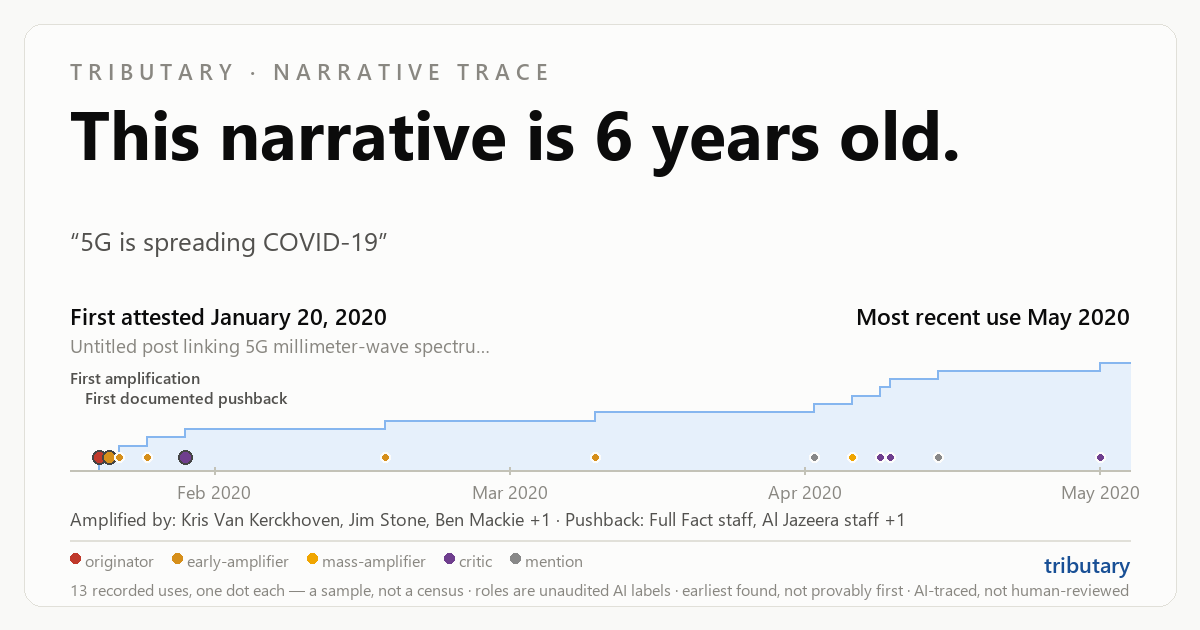
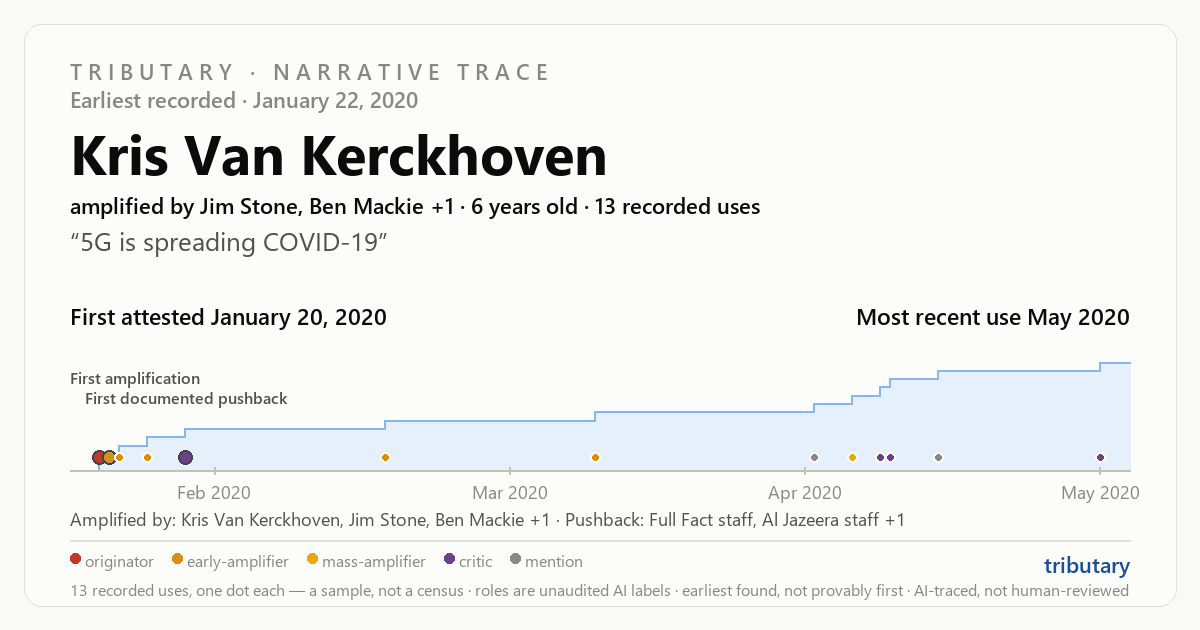
Card eyebrow dates the headlined source, not the trace
Caught on the first CI-rendered card (Iroquois trace): the eyebrow
paired the trace's first-attested date (December 1980) with a
role-originator from 1988 (Seventh Generation, Inc.), implying the
company said it eight years before its own recorded entry. The eyebrow
date now comes from the headlined entity's own attestation; the chart
label keeps the trace-level "First attested" fact. All cards
regenerated.

Changed region(s): [[0.0617, 0.1508, 0.8017, 0.3619], [0.0617, 0.5429, 0.4008, 0.573]]

diff --git a/gallery/cards/d5e2194ed5ea.html b/gallery/cards/d5e2194ed5ea.html
@@ -3,18 +3,18 @@
 <head>
 <meta charset="utf-8">
 <meta name="viewport" content="width=device-width, initial-scale=1">
-<title>This narrative is 33 years old. — Tributary</title>
+<title>Earliest recorded: Roy Rivenburg — Tributary</title>
 <meta property="og:type" content="article">
 <meta property="og:site_name" content="Tributary">
-<meta property="og:title" content="This narrative is 33 years old.">
-<meta property="og:description" content="Amplified by Roy Rivenburg, Ad Hudler +2. “chewing gum stays in your stomach for years” — first attested May 26, 1993 (33 years old). 13 recorded uses. Every date and source has a receipt. AI-traced, not human-reviewed.">
+<meta property="og:title" content="Roy Rivenburg — earliest recorded of “chewing gum stays in your stomach for years”">
+<meta property="og:description" content="Amplified by Ad Hudler, Nicholas Johnston +1. “chewing gum stays in your stomach for years” — first attested May 26, 1993 (33 years old). 13 recorded uses. Every date and source has a receipt. AI-traced, not human-reviewed.">
 <meta property="og:image" content="https://tarekelgindy.github.io/tributary/gallery/cards/d5e2194ed5ea.png">
 <meta property="og:image:width" content="1200">
 <meta property="og:image:height" content="630">
-<meta property="og:image:alt" content="This narrative is 33 years old.. Timeline of 13 recorded uses from May 26, 1993 onward. “chewing gum stays in your stomach for years”">
+<meta property="og:image:alt" content="Earliest recorded: Roy Rivenburg. Timeline of 13 recorded uses from May 26, 1993 onward. “chewing gum stays in your stomach for years”">
 <meta property="og:url" content="https://tarekelgindy.github.io/tributary/gallery/cards/d5e2194ed5ea.html">
 <meta name="twitter:card" content="summary_large_image">
-<meta name="description" content="Amplified by Roy Rivenburg, Ad Hudler +2. “chewing gum stays in your stomach for years” — first attested May 26, 1993 (33 years old). 13 recorded uses. Every date and source has a receipt. AI-traced, not human-reviewed.">
+<meta name="description" content="Amplified by Ad Hudler, Nicholas Johnston +1. “chewing gum stays in your stomach for years” — first attested May 26, 1993 (33 years old). 13 recorded uses. Every date and source has a receipt. AI-traced, not human-reviewed.">
 <style>
   :root { color-scheme: light; }
   * { box-sizing: border-box; }
@@ -61,9 +61,9 @@
 <div class="wrap">
   <div class="card">
     <div class="kicker">Tributary · narrative trace</div>
-    
-    <div class="headline">This narrative is 33 years old.</div>
-    <p class="deck">amplified by Roy Rivenburg, Ad Hudler +2 · 33 years old · 13 recorded uses</p>
+    <div class="eyebrow">Earliest recorded · September 19, 1993</div>
+    <div class="headline">Roy Rivenburg</div>
+    <p class="deck">amplified by Ad Hudler, Nicholas Johnston +1 · 33 years old · 13 recorded uses</p>
     <p class="phrase">“chewing gum stays in your stomach for years”</p>
     <svg viewBox="0 0 760 212" role="img" aria-label="Timeline of 13 recorded uses from May 26, 1993; Most recent use November 7, 2019"><style>.ms{font:600 15px system-ui;fill:#0b0b0b}.s{font:12.5px system-ui;fill:#898781}.t{font:11.5px system-ui;fill:#898781}.msl{font:600 11.5px system-ui;fill:#52514e}</style><polygon points="10.0,178.0 30.9,178.0 30.9,171.1 39.2,171.1 39.2,164.2 152.3,164.2 152.3,157.2 167.7,157.2 167.7,150.3 220.5,150.3 220.5,143.4 337.4,143.4 337.4,136.5 410.4,136.5 410.4,129.5 467.0,129.5 467.0,122.6 477.9,122.6 477.9,115.7 611.1,115.7 611.1,108.8 637.5,108.8 637.5,101.8 695.6,101.8 695.6,94.9 729.1,94.9 729.1,88.0 750.0,88.0 750.0,178.0" fill="#cde2fb" fill-opacity="0.55"/><polyline points="10.0,178.0 30.9,178.0 30.9,171.1 39.2,171.1 39.2,164.2 152.3,164.2 152.3,157.2 167.7,157.2 167.7,150.3 220.5,150.3 220.5,143.4 337.4,143.4 337.4,136.5 410.4,136.5 410.4,129.5 467.0,129.5 467.0,122.6 477.9,122.6 477.9,115.7 611.1,115.7 611.1,108.8 637.5,108.8 637.5,101.8 695.6,101.8 695.6,94.9 729.1,94.9 729.1,88.0 750.0,88.0" fill="none" stroke="#86b6ef" stroke-width="1.5"/><line x1="10" y1="178" x2="750" y2="178" stroke="#c3c2b7" stroke-width="1.5"/><line x1="73.2" y1="175" x2="73.2" y2="181" stroke="#c3c2b7"/><text x="73.2" y="195" text-anchor="middle" class="t">1995</text><line x1="205.1" y1="175" x2="205.1" y2="181" stroke="#c3c2b7"/><text x="205.1" y="195" text-anchor="middle" class="t">2000</text><line x1="337.1" y1="175" x2="337.1" y2="181" stroke="#c3c2b7"/><text x="337.1" y="195" text-anchor="middle" class="t">2005</text><line x1="469.1" y1="175" x2="469.1" y2="181" stroke="#c3c2b7"/><text x="469.1" y="195" text-anchor="middle" class="t">2010</text><line x1="601.1" y1="175" x2="601.1" y2="181" stroke="#c3c2b7"/><text x="601.1" y="195" text-anchor="middle" class="t">2015</text><line x1="733.0" y1="175" x2="733.0" y2="181" stroke="#c3c2b7"/><text x="733.0" y="195" text-anchor="middle" class="t">2020</text><circle cx="30.9" cy="165.0" r="6" fill="#d68f1a" stroke="#444444" stroke-width="1.5"><title>1993-05-26 · early-amplifier</title></circle><circle cx="39.2" cy="165.0" r="4" fill="#d68f1a" stroke="#fcfcfb" stroke-width="1.5"><title>1993-09-19 · Roy Rivenburg · early-amplifier</title></circle><circle cx="152.3" cy="165.0" r="4" fill="#d68f1a" stroke="#fcfcfb" stroke-width="1.5"><title>1998-01-01 · Ad Hudler · early-amplifier</title></circle><circle cx="167.7" cy="165.0" r="4" fill="#888888" stroke="#fcfcfb" stroke-width="1.5"><title>1998-08-01 · David E. Milov, J. Marc Andres, Nancy A. Erhart, David J. Bailey · mention</title></circle><circle cx="220.5" cy="165.0" r="4" fill="#d68f1a" stroke="#fcfcfb" stroke-width="1.5"><title>2000-08-01 · Nicholas Johnston · early-amplifier</title></circle><circle cx="337.4" cy="165.0" r="6" fill="#6f3e8e" stroke="#444444" stroke-width="1.5"><title>First documented pushback — 2005-01-05 · Barbara Mikkelson · critic</title></circle><circle cx="410.4" cy="165.0" r="4" fill="#6f3e8e" stroke="#fcfcfb" stroke-width="1.5"><title>2007-10-11 · John Matson · critic</title></circle><circle cx="467.0" cy="165.0" r="4" fill="#6f3e8e" stroke="#fcfcfb" stroke-width="1.5"><title>2009-12-02 · Adam Brandeberry · critic</title></circle><circle cx="477.9" cy="165.0" r="4" fill="#6f3e8e" stroke="#fcfcfb" stroke-width="1.5"><title>2010-05-01 · critic</title></circle><circle cx="611.1" cy="165.0" r="4" fill="#6f3e8e" stroke="#fcfcfb" stroke-width="1.5"><title>2015-05-19 · critic</title></circle><circle cx="637.5" cy="165.0" r="4" fill="#f0a500" stroke="#fcfcfb" stroke-width="1.5"><title>2016-05-19 · Randee Dawn · mass-amplifier</title></circle><circle cx="695.6" cy="165.0" r="4" fill="#6f3e8e" stroke="#fcfcfb" stroke-width="1.5"><title>2018-07-31 · critic</title></circle><circle cx="729.1" cy="165.0" r="4" fill="#6f3e8e" stroke="#fcfcfb" stroke-width="1.5"><title>2019-11-07 · critic</title></circle><text x="337.4" y="58" text-anchor="middle" class="msl">First documented pushback</text><text x="10" y="20" class="ms">First attested May 26, 1993</text><text x="10" y="38" class="s">Chew on This for a While</text><text x="750" y="20" text-anchor="end" class="ms">Most recent use November 7, 2019</text></svg>
     <p class="who">Amplified by: Roy Rivenburg, Ad Hudler, Nicholas Johnston +1 · Pushback: Barbara Mikkelson, John Matson +1</p>

diff --git a/gallery/cards/ae66151716a4.html b/gallery/cards/ae66151716a4.html
@@ -3,18 +3,18 @@
 <head>
 <meta charset="utf-8">
 <meta name="viewport" content="width=device-width, initial-scale=1">
-<title>This narrative is 6 years old. — Tributary</title>
+<title>Earliest recorded: Kris Van Kerckhoven — Tributary</title>
 <meta property="og:type" content="article">
 <meta property="og:site_name" content="Tributary">
-<meta property="og:title" content="This narrative is 6 years old.">
-<meta property="og:description" content="Amplified by Kris Van Kerckhoven, Jim Stone +2. “5G is spreading COVID-19” — first attested January 20, 2020 (6 years old). 13 recorded uses. Every date and source has a receipt. AI-traced, not human-reviewed.">
+<meta property="og:title" content="Kris Van Kerckhoven — earliest recorded of “5G is spreading COVID-19”">
+<meta property="og:description" content="Amplified by Jim Stone, Ben Mackie +1. “5G is spreading COVID-19” — first attested January 20, 2020 (6 years old). 13 recorded uses. Every date and source has a receipt. AI-traced, not human-reviewed.">
 <meta property="og:image" content="https://tarekelgindy.github.io/tributary/gallery/cards/ae66151716a4.png">
 <meta property="og:image:width" content="1200">
 <meta property="og:image:height" content="630">
-<meta property="og:image:alt" content="This narrative is 6 years old.. Timeline of 13 recorded uses from January 20, 2020 onward. “5G is spreading COVID-19”">
+<meta property="og:image:alt" content="Earliest recorded: Kris Van Kerckhoven. Timeline of 13 recorded uses from January 20, 2020 onward. “5G is spreading COVID-19”">
 <meta property="og:url" content="https://tarekelgindy.github.io/tributary/gallery/cards/ae66151716a4.html">
 <meta name="twitter:card" content="summary_large_image">
-<meta name="description" content="Amplified by Kris Van Kerckhoven, Jim Stone +2. “5G is spreading COVID-19” — first attested January 20, 2020 (6 years old). 13 recorded uses. Every date and source has a receipt. AI-traced, not human-reviewed.">
+<meta name="description" content="Amplified by Jim Stone, Ben Mackie +1. “5G is spreading COVID-19” — first attested January 20, 2020 (6 years old). 13 recorded uses. Every date and source has a receipt. AI-traced, not human-reviewed.">
 <style>
   :root { color-scheme: light; }
   * { box-sizing: border-box; }
@@ -61,9 +61,9 @@
 <div class="wrap">
   <div class="card">
     <div class="kicker">Tributary · narrative trace</div>
-    
-    <div class="headline">This narrative is 6 years old.</div>
-    <p class="deck">amplified by Kris Van Kerckhoven, Jim Stone +2 · 6 years old · 13 recorded uses</p>
+    <div class="eyebrow">Earliest recorded · January 22, 2020</div>
+    <div class="headline">Kris Van Kerckhoven</div>
+    <p class="deck">amplified by Jim Stone, Ben Mackie +1 · 6 years old · 13 recorded uses</p>
     <p class="phrase">“5G is spreading COVID-19”</p>
     <svg viewBox="0 0 760 212" role="img" aria-label="Timeline of 13 recorded uses from January 20, 2020; Most recent use May 2020"><style>.ms{font:600 15px system-ui;fill:#0b0b0b}.s{font:12.5px system-ui;fill:#898781}.t{font:11.5px system-ui;fill:#898781}.msl{font:600 11.5px system-ui;fill:#52514e}</style><polygon points="10.0,178.0 30.9,178.0 30.9,171.1 37.6,171.1 37.6,164.2 44.2,164.2 44.2,157.2 64.2,157.2 64.2,150.3 90.8,150.3 90.8,143.4 230.4,143.4 230.4,136.5 376.7,136.5 376.7,129.5 529.6,129.5 529.6,122.6 556.2,122.6 556.2,115.7 576.1,115.7 576.1,108.8 582.8,108.8 582.8,101.8 616.0,101.8 616.0,94.9 729.1,94.9 729.1,88.0 750.0,88.0 750.0,178.0" fill="#cde2fb" fill-opacity="0.55"/><polyline points="10.0,178.0 30.9,178.0 30.9,171.1 37.6,171.1 37.6,164.2 44.2,164.2 44.2,157.2 64.2,157.2 64.2,150.3 90.8,150.3 90.8,143.4 230.4,143.4 230.4,136.5 376.7,136.5 376.7,129.5 529.6,129.5 529.6,122.6 556.2,122.6 556.2,115.7 576.1,115.7 576.1,108.8 582.8,108.8 582.8,101.8 616.0,101.8 616.0,94.9 729.1,94.9 729.1,88.0 750.0,88.0" fill="none" stroke="#86b6ef" stroke-width="1.5"/><line x1="10" y1="178" x2="750" y2="178" stroke="#c3c2b7" stroke-width="1.5"/><line x1="110.7" y1="175" x2="110.7" y2="181" stroke="#c3c2b7"/><text x="110.7" y="195" text-anchor="middle" class="t">Feb 2020</text><line x1="316.8" y1="175" x2="316.8" y2="181" stroke="#c3c2b7"/><text x="316.8" y="195" text-anchor="middle" class="t">Mar 2020</text><line x1="522.9" y1="175" x2="522.9" y2="181" stroke="#c3c2b7"/><text x="522.9" y="195" text-anchor="middle" class="t">Apr 2020</text><line x1="729.1" y1="175" x2="729.1" y2="181" stroke="#c3c2b7"/><text x="729.1" y="195" text-anchor="middle" class="t">May 2020</text><circle cx="30.9" cy="165.0" r="6" fill="#c0392b" stroke="#444444" stroke-width="1.5"><title>2020-01-20 · originator</title></circle><circle cx="37.6" cy="165.0" r="6" fill="#d68f1a" stroke="#444444" stroke-width="1.5"><title>First amplification — 2020-01-21 · early-amplifier</title></circle><circle cx="44.2" cy="156.0" r="4" fill="#d68f1a" stroke="#fcfcfb" stroke-width="1.5"><title>2020-01-22 · Kris Van Kerckhoven · early-amplifier</title></circle><circle cx="64.2" cy="165.0" r="4" fill="#d68f1a" stroke="#fcfcfb" stroke-width="1.5"><title>2020-01-25 · Jim Stone · early-amplifier</title></circle><circle cx="90.8" cy="165.0" r="6" fill="#6f3e8e" stroke="#444444" stroke-width="1.5"><title>First documented pushback — 2020-01-29 · Full Fact staff · critic</title></circle><circle cx="230.4" cy="165.0" r="4" fill="#d68f1a" stroke="#fcfcfb" stroke-width="1.5"><title>2020-02-19 · early-amplifier</title></circle><circle cx="376.7" cy="165.0" r="4" fill="#d68f1a" stroke="#fcfcfb" stroke-width="1.5"><title>2020-03-10 · Ben Mackie · early-amplifier</title></circle><circle cx="529.6" cy="165.0" r="4" fill="#888888" stroke="#fcfcfb" stroke-width="1.5"><title>2020-04-02 · Matt · mention</title></circle><circle cx="556.2" cy="165.0" r="4" fill="#f0a500" stroke="#fcfcfb" stroke-width="1.5"><title>2020-04-06 · David Icke · mass-amplifier</title></circle><circle cx="576.1" cy="165.0" r="4" fill="#6f3e8e" stroke="#fcfcfb" stroke-width="1.5"><title>2020-04-09 · Full Fact staff · critic</title></circle><circle cx="582.8" cy="156.0" r="4" fill="#6f3e8e" stroke="#fcfcfb" stroke-width="1.5"><title>2020-04-10 · Al Jazeera staff · critic</title></circle><circle cx="616.0" cy="165.0" r="4" fill="#888888" stroke="#fcfcfb" stroke-width="1.5"><title>2020-04-15 · Fox News staff · mention</title></circle><circle cx="729.1" cy="165.0" r="4" fill="#6f3e8e" stroke="#fcfcfb" stroke-width="1.5"><title>2020-05-01 · Ahmed, Wasim; Vidal-Alaball, Josep; Downing, Joseph; López Seguí, Francesc · critic</title></circle><text x="68.9" y="58" text-anchor="middle" class="msl">First amplification</text><text x="90.8" y="74" text-anchor="middle" class="msl">First documented pushback</text><text x="10" y="20" class="ms">First attested January 20, 2020</text><text x="10" y="38" class="s">Untitled post linking 5G millimeter-wave spectrum to</text><text x="750" y="20" text-anchor="end" class="ms">Most recent use May 2020</text></svg>
     <p class="who">Amplified by: Kris Van Kerckhoven, Jim Stone, Ben Mackie +1 · Pushback: Full Fact staff, Al Jazeera staff +1</p>

diff --git a/gallery/cards/d5d3080404a9.html b/gallery/cards/d5d3080404a9.html
@@ -3,15 +3,15 @@
 <head>
 <meta charset="utf-8">
 <meta name="viewport" content="width=device-width, initial-scale=1">
-<title>This narrative is 23 years old. — Tributary</title>
+<title>Earliest recorded: Brendan Koerner — Tributary</title>
 <meta property="og:type" content="article">
 <meta property="og:site_name" content="Tributary">
-<meta property="og:title" content="This narrative is 23 years old.">
+<meta property="og:title" content="Brendan Koerner — earliest recorded of “Roman thumbs up meant live, thumbs down meant death in the a”">
 <meta property="og:description" content="Amplified by Today I Found Out. “Roman thumbs up meant live, thumbs down meant death in the arena” — first attested 2003 (23 years old). 12 recorded uses. Every date and source has a receipt. AI-traced, not human-reviewed.">
 <meta property="og:image" content="https://tarekelgindy.github.io/tributary/gallery/cards/d5d3080404a9.png">
 <meta property="og:image:width" content="1200">
 <meta property="og:image:height" content="630">
-<meta property="og:image:alt" content="This narrative is 23 years old.. Timeline of 12 recorded uses from 2003 onward. “Roman thumbs up meant live, thumbs down meant death in the arena”">
+<meta property="og:image:alt" content="Earliest recorded: Brendan Koerner. Timeline of 12 recorded uses from 2003 onward. “Roman thumbs up meant live, thumbs down meant death in the arena”">
 <meta property="og:url" content="https://tarekelgindy.github.io/tributary/gallery/cards/d5d3080404a9.html">
 <meta name="twitter:card" content="summary_large_image">
 <meta name="description" content="Amplified by Today I Found Out. “Roman thumbs up meant live, thumbs down meant death in the arena” — first attested 2003 (23 years old). 12 recorded uses. Every date and source has a receipt. AI-traced, not human-reviewed.">
@@ -61,8 +61,8 @@
 <div class="wrap">
   <div class="card">
     <div class="kicker">Tributary · narrative trace</div>
-    
-    <div class="headline">This narrative is 23 years old.</div>
+    <div class="eyebrow">Earliest recorded · March 28, 2003</div>
+    <div class="headline">Brendan Koerner</div>
     <p class="deck">amplified by Today I Found Out · 23 years old · 12 recorded uses</p>
     <p class="phrase">“Roman thumbs up meant live, thumbs down meant death in the arena”</p>
     <svg viewBox="0 0 760 212" role="img" aria-label="Timeline of 12 recorded uses from 2003; Most recent use February 23, 2026"><style>.ms{font:600 15px system-ui;fill:#0b0b0b}.s{font:12.5px system-ui;fill:#898781}.t{font:11.5px system-ui;fill:#898781}.msl{font:600 11.5px system-ui;fill:#52514e}</style><polygon points="10.0,178.0 30.9,178.0 30.9,170.5 38.2,170.5 38.2,163.0 274.1,163.0 274.1,155.5 364.7,155.5 364.7,148.0 387.2,148.0 387.2,140.5 440.9,140.5 440.9,133.0 553.2,133.0 553.2,125.5 576.7,125.5 576.7,118.0 630.8,118.0 630.8,110.5 682.9,110.5 682.9,103.0 720.5,103.0 720.5,95.5 729.1,95.5 729.1,88.0 750.0,88.0 750.0,178.0" fill="#cde2fb" fill-opacity="0.55"/><polyline points="10.0,178.0 30.9,178.0 30.9,170.5 38.2,170.5 38.2,163.0 274.1,163.0 274.1,155.5 364.7,155.5 364.7,148.0 387.2,148.0 387.2,140.5 440.9,140.5 440.9,133.0 553.2,133.0 553.2,125.5 576.7,125.5 576.7,118.0 630.8,118.0 630.8,110.5 682.9,110.5 682.9,103.0 720.5,103.0 720.5,95.5 729.1,95.5 729.1,88.0 750.0,88.0" fill="none" stroke="#86b6ef" stroke-width="1.5"/><line x1="10" y1="178" x2="750" y2="178" stroke="#c3c2b7" stroke-width="1.5"/><line x1="91.3" y1="175" x2="91.3" y2="181" stroke="#c3c2b7"/><text x="91.3" y="195" text-anchor="middle" class="t">2005</text><line x1="242.1" y1="175" x2="242.1" y2="181" stroke="#c3c2b7"/><text x="242.1" y="195" text-anchor="middle" class="t">2010</text><line x1="392.9" y1="175" x2="392.9" y2="181" stroke="#c3c2b7"/><text x="392.9" y="195" text-anchor="middle" class="t">2015</text><line x1="543.8" y1="175" x2="543.8" y2="181" stroke="#c3c2b7"/><text x="543.8" y="195" text-anchor="middle" class="t">2020</text><line x1="694.6" y1="175" x2="694.6" y2="181" stroke="#c3c2b7"/><text x="694.6" y="195" text-anchor="middle" class="t">2025</text><circle cx="30.9" cy="165.0" r="6" fill="#6f3e8e" stroke="#444444" stroke-width="1.5"><title>2003-01-01 · critic</title></circle><circle cx="38.2" cy="165.0" r="4" fill="#6f3e8e" stroke="#fcfcfb" stroke-width="1.5"><title>2003-03-28 · Brendan Koerner · critic</title></circle><circle cx="274.1" cy="165.0" r="4" fill="#6f3e8e" stroke="#fcfcfb" stroke-width="1.5"><title>2011-01-24 · Vicky Alvear Shecter · critic</title></circle><circle cx="364.7" cy="165.0" r="4" fill="#6f3e8e" stroke="#fcfcfb" stroke-width="1.5"><title>2014-01-25 · critic</title></circle><circle cx="387.2" cy="165.0" r="6" fill="#f0a500" stroke="#444444" stroke-width="1.5"><title>First amplification — 2014-10-23 · Today I Found Out · mass-amplifier</title></circle><circle cx="440.9" cy="165.0" r="4" fill="#6f3e8e" stroke="#fcfcfb" stroke-width="1.5"><title>2016-08-03 · critic</title></circle><circle cx="553.2" cy="165.0" r="4" fill="#6f3e8e" stroke="#fcfcfb" stroke-width="1.5"><title>2020-04-24 · Tastes of History · critic</title></circle><circle cx="576.7" cy="165.0" r="4" fill="#6f3e8e" stroke="#fcfcfb" stroke-width="1.5"><title>2021-02-04 · Bad Ancient · critic</title></circle><circle cx="630.8" cy="165.0" r="4" fill="#888888" stroke="#fcfcfb" stroke-width="1.5"><title>2022-11-20 · Screen Rant · mention</title></circle><circle cx="682.9" cy="165.0" r="4" fill="#6f3e8e" stroke="#fcfcfb" stroke-width="1.5"><title>2024-08-12 · critic</title></circle><circle cx="720.5" cy="165.0" r="4" fill="#6f3e8e" stroke="#fcfcfb" stroke-width="1.5"><title>2025-11-10 · Tastes of History · critic</title></circle><circle cx="729.1" cy="165.0" r="4" fill="#6f3e8e" stroke="#fcfcfb" stroke-width="1.5"><title>2026-02-23 · Time Magazine · critic</title></circle><text x="387.2" y="58" text-anchor="middle" class="msl">First amplification</text><text x="10" y="20" class="ms">First attested 2003</text><text x="10" y="38" class="s">UB Reporter</text><text x="750" y="20" text-anchor="end" class="ms">Most recent use February 23, 2026</text></svg>

diff --git a/gallery/cards/dcd44d8c83fe.html b/gallery/cards/dcd44d8c83fe.html
@@ -3,15 +3,15 @@
 <head>
 <meta charset="utf-8">
 <meta name="viewport" content="width=device-width, initial-scale=1">
-<title>This narrative is 2 months old. — Tributary</title>
+<title>Earliest recorded: J. Esteen — Tributary</title>
 <meta property="og:type" content="article">
 <meta property="og:site_name" content="Tributary">
-<meta property="og:title" content="This narrative is 2 months old.">
+<meta property="og:title" content="J. Esteen — earliest recorded of “Zendaya faces backlash for wearing ancient Iranian jewellery”">
 <meta property="og:description" content="Amplified by Trey Alston. “Zendaya faces backlash for wearing ancient Iranian jewellery” — first attested July 14, 2026 (2 months old). 11 recorded uses. Every date and source has a receipt. AI-traced, not human-reviewed.">
 <meta property="og:image" content="https://tarekelgindy.github.io/tributary/gallery/cards/dcd44d8c83fe.png">
 <meta property="og:image:width" content="1200">
 <meta property="og:image:height" content="630">
-<meta property="og:image:alt" content="This narrative is 2 months old.. Timeline of 11 recorded uses from July 14, 2026 onward. “Zendaya faces backlash for wearing ancient Iranian jewellery”">
+<meta property="og:image:alt" content="Earliest recorded: J. Esteen. Timeline of 11 recorded uses from July 14, 2026 onward. “Zendaya faces backlash for wearing ancient Iranian jewellery”">
 <meta property="og:url" content="https://tarekelgindy.github.io/tributary/gallery/cards/dcd44d8c83fe.html">
 <meta name="twitter:card" content="summary_large_image">
 <meta name="description" content="Amplified by Trey Alston. “Zendaya faces backlash for wearing ancient Iranian jewellery” — first attested July 14, 2026 (2 months old). 11 recorded uses. Every date and source has a receipt. AI-traced, not human-reviewed.">
@@ -61,8 +61,8 @@
 <div class="wrap">
   <div class="card">
     <div class="kicker">Tributary · narrative trace</div>
-    
-    <div class="headline">This narrative is 2 months old.</div>
+    <div class="eyebrow">Earliest recorded · July 18, 2026</div>
+    <div class="headline">J. Esteen</div>
     <p class="deck">amplified by Trey Alston · 2 months old · 11 recorded uses</p>
     <p class="phrase">“Zendaya faces backlash for wearing ancient Iranian jewellery”</p>
     <svg viewBox="0 0 760 212" role="img" aria-label="Timeline of 11 recorded uses from July 14, 2026; Most recent use July 21, 2026"><style>.ms{font:600 15px system-ui;fill:#0b0b0b}.s{font:12.5px system-ui;fill:#898781}.t{font:11.5px system-ui;fill:#898781}.msl{font:600 11.5px system-ui;fill:#52514e}</style><polygon points="10.0,178.0 87.7,178.0 87.7,161.6 171.2,161.6 171.2,145.3 338.2,145.3 338.2,137.1 421.8,137.1 421.8,104.4 588.8,104.4 588.8,96.2 672.3,96.2 672.3,88.0 750.0,88.0 750.0,178.0" fill="#cde2fb" fill-opacity="0.55"/><polyline points="10.0,178.0 87.7,178.0 87.7,161.6 171.2,161.6 171.2,145.3 338.2,145.3 338.2,137.1 421.8,137.1 421.8,104.4 588.8,104.4 588.8,96.2 672.3,96.2 672.3,88.0 750.0,88.0" fill="none" stroke="#86b6ef" stroke-width="1.5"/><line x1="10" y1="178" x2="750" y2="178" stroke="#c3c2b7" stroke-width="1.5"/><circle cx="87.7" cy="165.0" r="6" fill="#c0392b" stroke="#444444" stroke-width="1.5"><title>2026-07-14 · originator</title></circle><circle cx="87.7" cy="156.0" r="6" fill="#d68f1a" stroke="#444444" stroke-width="1.5"><title>First amplification — 2026-07-14 · early-amplifier</title></circle><circle cx="171.2" cy="165.0" r="4" fill="#d68f1a" stroke="#fcfcfb" stroke-width="1.5"><title>2026-07-15 · early-amplifier</title></circle><circle cx="171.2" cy="156.0" r="4" fill="#d68f1a" stroke="#fcfcfb" stroke-width="1.5"><title>2026-07-15 · early-amplifier</title></circle><circle cx="338.2" cy="165.0" r="6" fill="#6f3e8e" stroke="#444444" stroke-width="1.5"><title>First documented pushback — 2026-07-17 · critic</title></circle><circle cx="421.8" cy="165.0" r="4" fill="#888888" stroke="#fcfcfb" stroke-width="1.5"><title>2026-07-18 · J. Esteen · mention</title></circle><circle cx="421.8" cy="156.0" r="4" fill="#f0a500" stroke="#fcfcfb" stroke-width="1.5"><title>2026-07-18 · mass-amplifier</title></circle><circle cx="421.8" cy="147.0" r="4" fill="#f0a500" stroke="#fcfcfb" stroke-width="1.5"><title>2026-07-18 · mass-amplifier</title></circle><circle cx="421.8" cy="138.0" r="4" fill="#f0a500" stroke="#fcfcfb" stroke-width="1.5"><title>2026-07-18 · mass-amplifier</title></circle><circle cx="588.8" cy="165.0" r="4" fill="#f0a500" stroke="#fcfcfb" stroke-width="1.5"><title>2026-07-20 · Trey Alston · mass-amplifier</title></circle><circle cx="672.3" cy="165.0" r="4" fill="#d68f1a" stroke="#fcfcfb" stroke-width="1.5"><title>2026-07-21 · early-amplifier</title></circle><text x="87.7" y="58" text-anchor="middle" class="msl">First amplification</text><text x="338.2" y="74" text-anchor="middle" class="msl">First documented pushback</text><text x="10" y="20" class="ms">First attested July 14, 2026</text><text x="10" y="38" class="s">Zendaya's The Odyssey premiere earrings spark ethics</text><text x="750" y="20" text-anchor="end" class="ms">Most recent use July 21, 2026</text></svg>

diff --git a/gallery/cards/43b77b4eda56.html b/gallery/cards/43b77b4eda56.html
@@ -61,7 +61,7 @@
 <div class="wrap">
   <div class="card">
     <div class="kicker">Tributary · narrative trace</div>
-    <div class="eyebrow">Origin · December 1980</div>
+    <div class="eyebrow">Origin · 1988</div>
     <div class="headline">Seventh Generation, Inc.</div>
     <p class="deck">amplified by Christopher Vecsey; Robert W. Venables, Molly Larkin +2 · 45 years old · 12 recorded uses</p>
     <p class="phrase">“the Iroquois seven generations principle guides long-term decision making”</p>

diff --git a/gallery/cards/8b04de9b0b8e.html b/gallery/cards/8b04de9b0b8e.html
@@ -61,7 +61,7 @@
 <div class="wrap">
   <div class="card">
     <div class="kicker">Tributary · narrative trace</div>
-    <div class="eyebrow">Origin · May 26, 1993</div>
+    <div class="eyebrow">Origin · August 1998</div>
     <div class="headline">David E. Milov et al.</div>
     <p class="deck">amplified by Roy Rivenburg, Ad Hudler +2 · 33 years old · 14 recorded uses</p>
     <p class="phrase">“swallowed gum passes through your system in a few days”</p>

diff --git a/gallery/cards/95dffd8065ce.html b/gallery/cards/95dffd8065ce.html
@@ -61,7 +61,7 @@
 <div class="wrap">
   <div class="card">
     <div class="kicker">Tributary · narrative trace</div>
-    <div class="eyebrow">Origin · December 1968</div>
+    <div class="eyebrow">Origin · December 18, 1969</div>
     <div class="headline">John Noble Wilford</div>
     <p class="deck">amplified by Bill Kaysing and Randy Reid, Peter Hyams +3 · 57 years old · 13 recorded uses</p>
     <p class="phrase">“the moon landing was faked”</p>

diff --git a/cards.py b/cards.py
@@ -559,16 +559,23 @@ def cast(dated):
                 out.append(n)
         return out
 
-    role_origin = uniq_names([i for i in dated
-                              if (i.get("amplifier_role") or "") == "originator"])
-    origin = role_origin or uniq_names(dated[:1])
-    origin_name = origin[0] if origin else ""
+    role_originators = [i for i in dated
+                        if (i.get("amplifier_role") or "") == "originator"]
+    origin_entry = next((i for i in role_originators if name(i)), None)
+    origin_label = "Origin" if origin_entry is not None else "Earliest recorded"
+    if origin_entry is None:
+        origin_entry = next((i for i in dated if name(i)), None)
+    origin_name = name(origin_entry) if origin_entry is not None else ""
+    # the eyebrow date belongs to the HEADLINED entity's own entry — pairing
+    # the trace's first-attested date with a later originator's name would
+    # claim they said it earlier than recorded (caught on the first CI card)
+    origin_date = fmt_date_human(origin_entry.get("date") or "") if origin_entry is not None else ""
     amps = [n for n in uniq_names([i for i in dated if (i.get("amplifier_role") or "")
                                    in ("early-amplifier", "mass-amplifier")])
             if n != origin_name]
     more = f" +{len(amps) - 2}" if len(amps) > 2 else ""
-    return {"origin_name": origin_name,
-            "origin_label": "Origin" if role_origin else "Earliest recorded",
+    return {"origin_name": origin_name, "origin_label": origin_label,
+            "origin_date": origin_date,
             "amps": ("amplified by " + ", ".join(amps[:2]) + more) if amps else ""}
 
 
@@ -747,7 +754,7 @@ def render_png(cd, out_path):
     # headline — an empty name would be a worse hero than an honest number.
     who_lead = cd["cast"]["origin_name"]
     if who_lead:
-        eyebrow = f'{cd["cast"]["origin_label"]} · {cd["first_human"]}'
+        eyebrow = f'{cd["cast"]["origin_label"]} · {cd["cast"]["origin_date"] or cd["first_human"]}'
         d.text((ML, 84), eyebrow, font=_font(22, "semibold"), fill=INK3)
         f_head = _fit(d, who_lead, "bold", 56, cw, min_size=30)
         d.text((ML, 114), _ellipsize(d, who_lead, f_head, cw), font=f_head, fill=INK1)
@@ -1625,7 +1632,7 @@ def render_page(cd, out_path):
 <div class="wrap">
   <div class="card">
     <div class="kicker">Tributary · narrative trace</div>
-    {f'<div class="eyebrow">{esc(c["origin_label"])} · {esc(cd["first_human"])}</div>' if who_lead else ''}
+    {f'<div class="eyebrow">{esc(c["origin_label"])} · {esc(c["origin_date"] or cd["first_human"])}</div>' if who_lead else ''}
     <div class="headline">{esc(who_lead) if who_lead else esc(cd["headline"])}</div>
     <p class="deck">{esc(" · ".join(b for b in (c["amps"], f'{cd["age_text"]} old', f'{cd["n_uses"]} recorded uses') if b))}</p>
     <p class="phrase">“{esc(cd["phrase"])}”</p>
